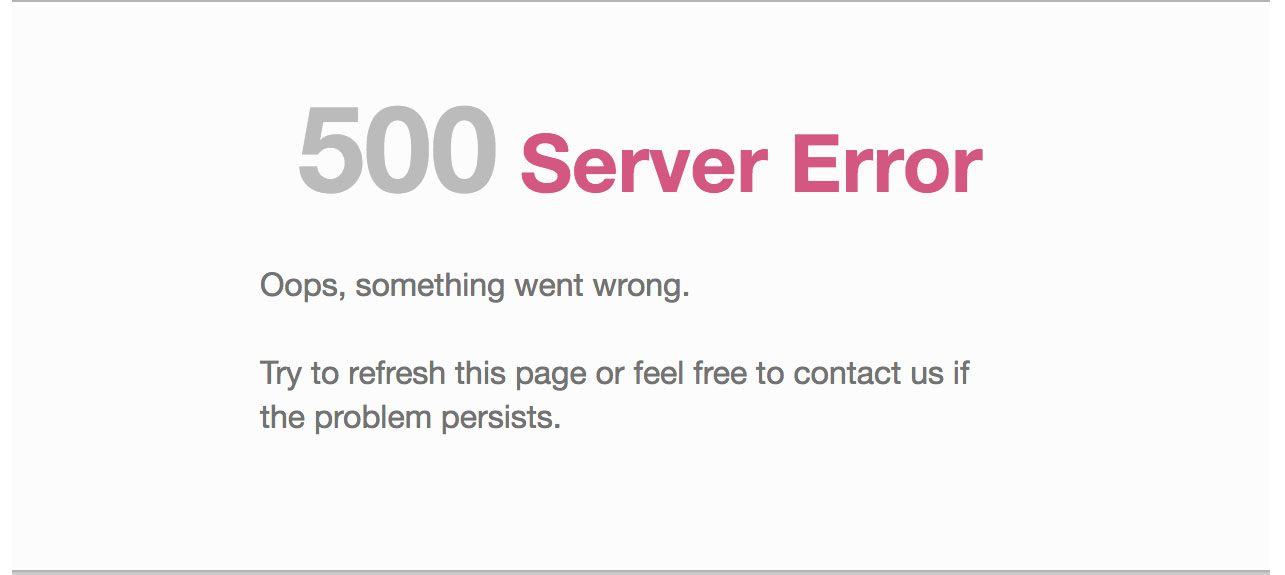
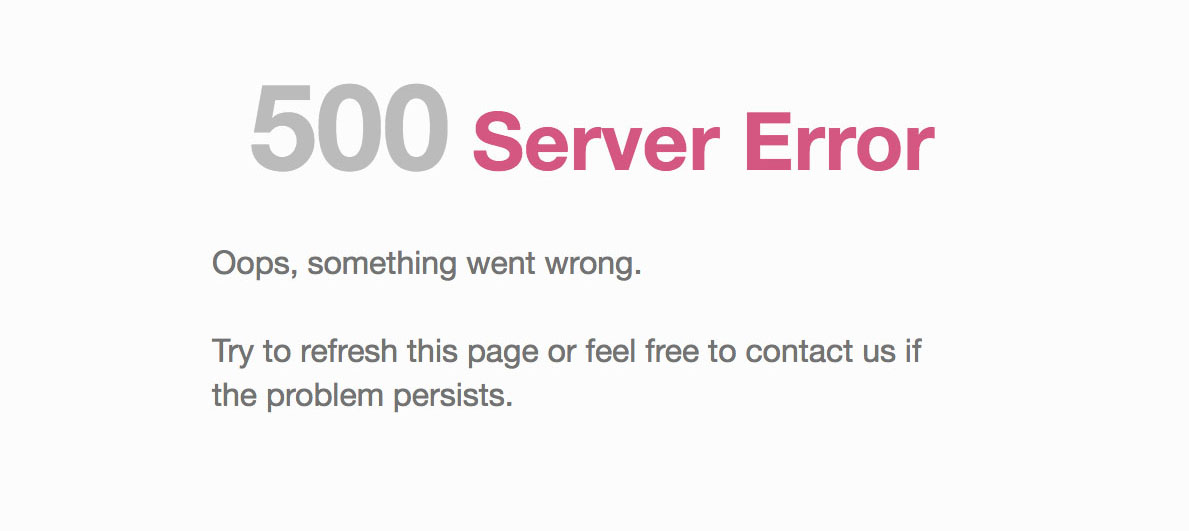
Add Error Pages

diff --git a/public/js/app.js b/public/js/app.js
@@ -155,7 +155,7 @@ $('#cart-country').change(function () {
   \*********************************/
 /***/ (() => {
 
-throw new Error("Module build failed (from ./node_modules/mini-css-extract-plugin/dist/loader.js):\nModuleBuildError: Module build failed (from ./node_modules/sass-loader/dist/cjs.js):\nSassError: Expected identifier.\n    ╷\n233 │ #404-page{\n    │  ^\n    ╵\n  resources\\scss\\pages\\_users.scss 233:2  @import\n  resources\\scss\\app.scss 21:9            root stylesheet\n    at processResult (C:\\xampp\\htdocs\\peppers\\node_modules\\webpack\\lib\\NormalModule.js:598:19)\n    at C:\\xampp\\htdocs\\peppers\\node_modules\\webpack\\lib\\NormalModule.js:692:5\n    at C:\\xampp\\htdocs\\peppers\\node_modules\\loader-runner\\lib\\LoaderRunner.js:399:11\n    at C:\\xampp\\htdocs\\peppers\\node_modules\\loader-runner\\lib\\LoaderRunner.js:251:18\n    at context.callback (C:\\xampp\\htdocs\\peppers\\node_modules\\loader-runner\\lib\\LoaderRunner.js:124:13)\n    at C:\\xampp\\htdocs\\peppers\\node_modules\\sass-loader\\dist\\index.js:62:7\n    at Function.call$2 (C:\\xampp\\htdocs\\peppers\\node_modules\\sass\\sass.dart.js:91729:16)\n    at _render_closure1.call$2 (C:\\xampp\\htdocs\\peppers\\node_modules\\sass\\sass.dart.js:80373:12)\n    at _RootZone.runBinary$3$3 (C:\\xampp\\htdocs\\peppers\\node_modules\\sass\\sass.dart.js:27269:18)\n    at _FutureListener.handleError$1 (C:\\xampp\\htdocs\\peppers\\node_modules\\sass\\sass.dart.js:25797:19)");
+throw new Error("Module build failed (from ./node_modules/mini-css-extract-plugin/dist/loader.js):\nModuleBuildError: Module build failed (from ./node_modules/sass-loader/dist/cjs.js):\nSassError: expected \"{\".\n    ╷\n232 │ #\n    │  ^\n    ╵\n  resources\\scss\\pages\\_users.scss 232:2  @import\n  resources\\scss\\app.scss 21:9            root stylesheet\n    at processResult (C:\\xampp\\htdocs\\peppers\\node_modules\\webpack\\lib\\NormalModule.js:598:19)\n    at C:\\xampp\\htdocs\\peppers\\node_modules\\webpack\\lib\\NormalModule.js:692:5\n    at C:\\xampp\\htdocs\\peppers\\node_modules\\loader-runner\\lib\\LoaderRunner.js:399:11\n    at C:\\xampp\\htdocs\\peppers\\node_modules\\loader-runner\\lib\\LoaderRunner.js:251:18\n    at context.callback (C:\\xampp\\htdocs\\peppers\\node_modules\\loader-runner\\lib\\LoaderRunner.js:124:13)\n    at C:\\xampp\\htdocs\\peppers\\node_modules\\sass-loader\\dist\\index.js:62:7\n    at Function.call$2 (C:\\xampp\\htdocs\\peppers\\node_modules\\sass\\sass.dart.js:91729:16)\n    at _render_closure1.call$2 (C:\\xampp\\htdocs\\peppers\\node_modules\\sass\\sass.dart.js:80373:12)\n    at _RootZone.runBinary$3$3 (C:\\xampp\\htdocs\\peppers\\node_modules\\sass\\sass.dart.js:27269:18)\n    at _FutureListener.handleError$1 (C:\\xampp\\htdocs\\peppers\\node_modules\\sass\\sass.dart.js:25797:19)");
 
 /***/ }),
 

diff --git a/resources/scss/pages/_users.scss b/resources/scss/pages/_users.scss
@@ -114,7 +114,6 @@
                 }
             }
         }
-
     }
 }
 
@@ -231,7 +230,7 @@
 }
 
 #404-page{
-    img{
-        width: inherit;
+    a{
+        color: ivory;
     }
 }

diff --git a/public/css/app.css b/public/css/app.css
@@ -560,10 +560,6 @@ body {
     display: block;
   }
 }
-#page img {
-  width: inherit;
-}
-
 .product-view .product-shop {
   margin: 20px 0;
 }

diff --git a/resources/scss/app.scss b/resources/scss/app.scss
@@ -22,3 +22,6 @@ body {
 @import "pages/products";
 @import "pages/cart";
 @import "pages/checkout";
+
+
+

diff --git a/resources/views/user/error/403page.blade.php b/resources/views/user/error/403page.blade.php
@@ -1,38 +1,38 @@
 @include('layout.header')
-
 <body>
     @include('layout.navbar')
+    <div class="container p-5">
+        <div class="row">
+    <div class="col-lg-12">
+        <div class="pyramid" style="width:inherit">
+            <img src="{{url('public/images')}}/error/403.jpg" usemap="#Map" style="width:inherit" />
+
+            <map name="Map" id="Map">
+
+                <area href="{{route('home')}}" shape="poly" class="brick 2" coords="399,269,681,268,673,468,227,455" target="_blank" />
 
 
-
-<div class="container p-5">
-
-  <div class="pyramid" style="width:inherit">
-    <img src="{{url('public/images')}}/error/403.jpg" usemap="#Map" style="width:inherit"/>
-
-    <map name="Map" id="Map">
-
-        <area href="{{route('home')}}" shape="poly" class="brick 2" coords="399,269,681,268,673,468,227,455" target="_blank"/>
-
-
-    </map>
-  </div>
-
-</div>
-
-<section class="container">
-            <div class="row">
-            <div class="col-lg-12 d-flex justify-content-between">
-                <a href="{{route('home')}}" target="_blank"> Main Page</a>
-                <a href="{{route('products')}}" target="_blank"> Our Products</a>
-                <a href="{{route('sell.howToSellWithUs')}}" target="_blank"> How To Sell With Us</a>
-                <a href="{{route('static.faqs')}}" target="_blank"> FAQs</a>
-                <a href="{{route('static.whoWeAre')}}" target="_blank"> Who We Are</a>
+            </map>
+        </div>
+    </div>
+        </div>
+    </div>
+    <section class="container" id="403-page">
+        <h2 class="text-center">You Can Go To</h2>
+        <div class="row  justify-content-between">
+            <div class="col-lg-6 col-md-12 d-flex justify-content-between flex-column">
+                <a class="btn btn-warning font-weight-bold mt-3" href="{{route('home')}}" target="_blank"> Main Page</a>
+                <a class="btn btn-warning font-weight-bold mt-3" href="{{route('products')}}" target="_blank"> Our Products</a>
+                <a class="btn btn-warning font-weight-bold mt-3" href="{{route('products')}}" target="_blank"> Contact Us</a>
             </div>
+            <div class="col-lg-6 col-md-12 d-flex justify-content-between flex-column">
+                <a class="btn btn-warning font-weight-bold mt-3" href="{{route('sell.howToSellWithUs')}}" target="_blank"> How To Sell With Us</a>
+                <a class="btn btn-warning font-weight-bold mt-3" href="{{route('static.faqs')}}" target="_blank"> FAQs</a>
+                <a class="btn btn-warning font-weight-bold mt-3" href="{{route('static.whoWeAre')}}" target="_blank"> Who We Are</a>
+
             </div>
+        </div>
     </section>
-
-
     @include('layout.footer')
     @include('layout.scripts')
 </body>

diff --git a/resources/views/user/error/500page.blade.php b/resources/views/user/error/500page.blade.php
@@ -3,24 +3,27 @@
 <body>
     @include('layout.navbar')
 
+    <section class="container p-5 404-page" >
+        <div class="row">
+            <div class="col-lg-12">
+            <img src="{{url('public/images')}}/error/500.jpg" style="width:inherit" />
 
-
-    <div class="container p-5">
-        <img src="{{url('public/images')}}/error/500.jpg" style="width:inherit" />
-
-    </div>
-
-    <section class="container p-5">
-        <div class="row  justify-content-between">
-            <div class="col-lg-6 col-md-12 d-flex justify-content-between">
-                <a href="{{route('home')}}" target="_blank"> Main Page</a>
-                <a href="{{route('products')}}" target="_blank"> Our Products</a>
-                <a href="{{route('products')}}" target="_blank"> Contact Us</a>
             </div>
-            <div class="col-lg-6 col-md-12 d-flex justify-content-between">
-                <a href="{{route('sell.howToSellWithUs')}}" target="_blank"> How To Sell With Us</a>
-                <a href="{{route('static.faqs')}}" target="_blank"> FAQs</a>
-                <a href="{{route('static.whoWeAre')}}" target="_blank"> Who We Are</a>
+        </div>
+
+    </section>
+    <section class="container" id="500-page">
+        <h2 class="text-center">You Can Go To</h2>
+    <div class="row  justify-content-between">
+            <div class="col-lg-6 col-md-12 d-flex justify-content-between flex-column">
+                <a class="btn btn-warning font-weight-bold mt-3" href="{{route('home')}}" target="_blank"> Main Page</a>
+                <a class="btn btn-warning font-weight-bold mt-3" href="{{route('products')}}" target="_blank"> Our Products</a>
+                <a class="btn btn-warning font-weight-bold mt-3" href="{{route('products')}}" target="_blank"> Contact Us</a>
+            </div>
+            <div class="col-lg-6 col-md-12 d-flex justify-content-between flex-column">
+                <a class="btn btn-warning font-weight-bold mt-3" href="{{route('sell.howToSellWithUs')}}" target="_blank"> How To Sell With Us</a>
+                <a class="btn btn-warning font-weight-bold mt-3" href="{{route('static.faqs')}}" target="_blank"> FAQs</a>
+                <a class="btn btn-warning font-weight-bold mt-3" href="{{route('static.whoWeAre')}}" target="_blank"> Who We Are</a>
 
             </div>
         </div>

diff --git a/resources/views/user/error/404page.blade.php b/resources/views/user/error/404page.blade.php
@@ -3,20 +3,30 @@
 <body>
     @include('layout.navbar')
 
-    <section class="container p-5 404-page">
-        <img src="{{url('public/images')}}/error/404-pages.jpg" alt="" style="width:inherit">
+    <section class="container p-5 404-page" >
+        <div class="row">
+            <div class="col-lg-12">
+                <img src="{{url('public/images')}}/error/404-pages.jpg" alt="" style="width:inherit">
+
+            </div>
+        </div>
 
     </section>
-    <section class="container">
-            <div class="row">
-            <div class="col-lg-12 d-flex justify-content-between">
-                <a href="{{route('home')}}" target="_blank"> Main Page</a>
-                <a href="{{route('products')}}" target="_blank"> Our Products</a>
-                <a href="{{route('sell.howToSellWithUs')}}" target="_blank"> How To Sell With Us</a>
-                <a href="{{route('static.faqs')}}" target="_blank"> FAQs</a>
-                <a href="{{route('static.whoWeAre')}}" target="_blank"> Who We Are</a>
+    <section class="container" id="404-page">
+        <h2 class="text-center">You Can Go To</h2>
+    <div class="row  justify-content-between">
+            <div class="col-lg-6 col-md-12 d-flex justify-content-between flex-column">
+                <a class="btn btn-warning font-weight-bold mt-3" href="{{route('home')}}" target="_blank"> Main Page</a>
+                <a class="btn btn-warning font-weight-bold mt-3" href="{{route('products')}}" target="_blank"> Our Products</a>
+                <a class="btn btn-warning font-weight-bold mt-3" href="{{route('products')}}" target="_blank"> Contact Us</a>
             </div>
+            <div class="col-lg-6 col-md-12 d-flex justify-content-between flex-column">
+                <a class="btn btn-warning font-weight-bold mt-3" href="{{route('sell.howToSellWithUs')}}" target="_blank"> How To Sell With Us</a>
+                <a class="btn btn-warning font-weight-bold mt-3" href="{{route('static.faqs')}}" target="_blank"> FAQs</a>
+                <a class="btn btn-warning font-weight-bold mt-3" href="{{route('static.whoWeAre')}}" target="_blank"> Who We Are</a>
+
             </div>
+        </div>
     </section>
     @include('layout.footer')
     @include('layout.scripts')
